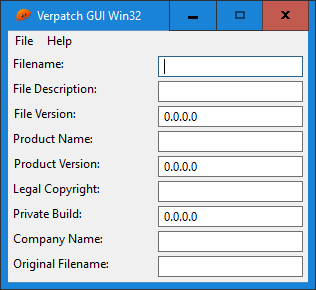
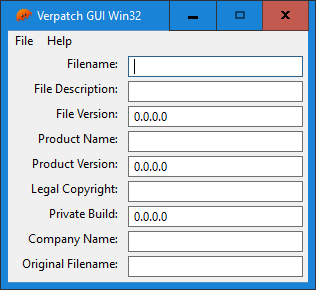
:bookmark: v0.1.0

diff --git a/src/my_window.rs b/src/my_window.rs
@@ -4,100 +4,230 @@ use winsafe::WinResult;
 
 #[derive(Clone)]
 pub struct MyWindow {
-  wnd: gui::WindowMain,
-  edits: Vec<gui::Edit>,
-  labels: Vec<gui::Label>
+    wnd: gui::WindowMain,
+    edits: Vec<gui::Edit>,
+    labels: Vec<gui::Label>,
 }
 
 impl MyWindow {
-  pub fn new() -> MyWindow {
-    let wnd = gui::WindowMain::new_dlg(1000, Some(101), None);
+    pub fn new() -> MyWindow {
+        let wnd = gui::WindowMain::new_dlg(1000, Some(101), None);
 
-    let label_texts: Vec<&str> = vec![
-      "Filename",
-      "File Description",
-      "File Version",
-      "Product Name",
-      "Product Version",
-      "Legal Copyright",
-      "Private Build",
-      "Company Name",
-      "Original Filename"
-    ];
+        let label_texts: Vec<&str> = vec![
+            "Filename",
+            "File Description",
+            "File Version",
+            "Product Name",
+            "Product Version",
+            "Legal Copyright",
+            "Private Build",
+            "Company Name",
+            "Original Filename",
+        ];
 
-    let edit_values: Vec<&str> = vec![
-      "", 
-      "", 
-      "0.0.0.0", 
-      "", 
-      "0.0.0.0", 
-      "", 
-      "0.0.0.0", 
-      "", 
-      "", 
-    ];
+        let edit_values: Vec<&str> = vec!["", "", "0.0.0.0", "", "0.0.0.0", "", "0.0.0.0", "", ""];
 
-    let mut edits: Vec<gui::Edit> = vec![];
-    let mut labels: Vec<gui::Label> = vec![];
+        let mut edits: Vec<gui::Edit> = vec![];
+        let mut labels: Vec<gui::Label> = vec![];
 
-    for i in 0..9 {
-      let edit = gui::Edit::new(&wnd, gui::EditOpts {
-        text: format!("{}", edit_values[i as usize]),
-        position: winsafe::POINT::new( 150, 5 + (20 * i) + (5 * i)),
-        width: 145,
-        ..Default::default()
-      });
+        for i in 0..9 {
+            let edit = gui::Edit::new(
+                &wnd,
+                gui::EditOpts {
+                    text: format!("{}", edit_values[i as usize]),
+                    position: winsafe::POINT::new(120, 5 + (20 * i) + (5 * i)),
+                    width: 175,
+                    ..Default::default()
+                },
+            );
 
-      let label = gui::Label::new(&wnd, gui::LabelOpts {
-        text: format!("{}:", label_texts[i as usize]),
-        position: winsafe::POINT::new( 5, 5 + (20 * i) + (5 * i)),
-        // the line below requires winsafe 0.0.3 
-        // size: winsafe::SIZE::new(145, 20),
-        label_style: winsafe::co::SS::RIGHT | winsafe::co::SS::NOTIFY,
-        ..Default::default()
-      });
+            let label = gui::Label::new(
+                &wnd,
+                gui::LabelOpts {
+                    text: format!("{}:", label_texts[i as usize]),
+                    position: winsafe::POINT::new(5, 5 + (20 * i) + (5 * i)),
+                    size: winsafe::SIZE::new(105, 20),
+                    label_style: winsafe::co::SS::RIGHT | winsafe::co::SS::NOTIFY,
+                    ..Default::default()
+                },
+            );
 
-      edits.push(edit);
-      labels.push(label);
-    } 
-    
-    let new_self = Self { wnd, edits, labels };
+            edits.push(edit);
+            labels.push(label);
+        }
 
-    new_self.events();
-    new_self
-  }
+        let new_self = Self { wnd, edits, labels };
 
-  pub fn run(&self) -> WinResult<()> {
-    self.wnd.run_main(None)
-  }
+        new_self.events();
+        new_self
+    }
 
-  fn events(&self) {
-    self.wnd.on().wm_init_dialog({
-      let myself = self.clone();
-      move |_| {
-        
-        true  
-      }
-    });
+    pub fn run(&self) -> WinResult<()> {
+        self.wnd.run_main(None)
+    }
 
-    
-    self.wnd.on().wm_command(winsafe::co::CMD::Menu, 1, {
-      move || {
-        println!("Open clicked.")
-      }
-    });
+    fn events(&self) {
+        self.wnd.on().wm_command(winsafe::co::CMD::Menu, 1, {
+            let myself = self.clone();
+            move || {
+                println!("Open clicked.");
+                let fileo: winsafe::shell::IFileOpenDialog = winsafe::CoCreateInstance(
+                    &winsafe::shell::clsid::FileOpenDialog,
+                    None,
+                    winsafe::co::CLSCTX::INPROC_SERVER,
+                )
+                .unwrap();
 
-    self.wnd.on().wm_command(winsafe::co::CMD::Menu, 2, {
-      move || {
-        println!("Save clicked.")
-      }
-    });
+                fileo
+                    .IFileDialog
+                    .SetOptions(
+                        fileo.IFileDialog.GetOptions().unwrap()
+                            | winsafe::co::FOS::FORCEFILESYSTEM
+                            | winsafe::co::FOS::FILEMUSTEXIST,
+                    )
+                    .unwrap();
 
-    self.wnd.on().wm_command(winsafe::co::CMD::Menu, 3, {
-      move || {
-        println!("About clicked.")
-      }
-    });
+                fileo
+                    .IFileDialog
+                    .SetFileTypes(&[("Binary files", "*.exe;*.dll"), ("All files", "*.*")])
+                    .unwrap();
 
-  }
+                fileo.IFileDialog.SetFileTypeIndex(0).unwrap();
+
+                let user_clicked_ok = fileo
+                    .IFileDialog
+                    .IModalWindow
+                    .Show(myself.wnd.hwnd())
+                    .unwrap();
+
+                if user_clicked_ok {
+                    let shi = fileo.IFileDialog.GetResult().unwrap();
+                    let file_path = shi.GetDisplayName(winsafe::co::SIGDN::FILESYSPATH).unwrap();
+                    myself.edits[0].set_text(&file_path).unwrap();
+                }
+            }
+        });
+
+        self.wnd.on().wm_command(winsafe::co::CMD::Menu, 2, {
+            let myself = self.clone();
+            move || {
+                println!("Save clicked.");
+                let edits = &myself.edits;
+
+                let filename = &edits[0].text().unwrap();
+                let file_description = &edits[1].text().unwrap();
+                let file_version = &edits[2].text().unwrap();
+                let product_name = &edits[3].text().unwrap();
+                let product_version = &edits[4].text().unwrap();
+                let legal_copyright = &edits[5].text().unwrap();
+                let private_build = &edits[6].text().unwrap();
+                let company_name = &edits[7].text().unwrap();
+                let original_filename = &edits[8].text().unwrap();
+
+                use std::os::windows::process::CommandExt;
+                use std::process::Command;
+                const CREATE_NO_WINDOW: u32 = 0x08000000;
+                let output = Command::new("verpatch")
+                    .creation_flags(CREATE_NO_WINDOW)
+                    .args(&[
+                        "/va",
+                        filename,
+                        file_version,
+                        "/s",
+                        "OriginalFilename",
+                        original_filename,
+                        "/s",
+                        "desc",
+                        file_description,
+                        "/s",
+                        "pb",
+                        private_build,
+                        "/s",
+                        "company",
+                        company_name,
+                        "/s",
+                        "(c)",
+                        legal_copyright,
+                        "/s",
+                        "product",
+                        product_name,
+                        "/pv",
+                        product_version,
+                    ])
+                    .output();
+
+                match output {
+                    Ok(output) => {
+                        if output.status.success() {
+                            myself
+                                .wnd
+                                .hwnd()
+                                .MessageBox(
+                                    "File metadata updated successfully!",
+                                    "Saved!",
+                                    winsafe::co::MB::OK,
+                                )
+                                .unwrap();
+                            return;
+                        }
+                        myself
+                            .wnd
+                            .hwnd()
+                            .MessageBox(
+                                &format!(
+                                    "Save failed:\n{}",
+                                    std::str::from_utf8(&output.stdout).unwrap()
+                                ),
+                                "Error",
+                                winsafe::co::MB::OK | winsafe::co::MB::ICONERROR,
+                            )
+                            .unwrap();
+                    }
+                    Err(e) => {
+                        myself
+                            .wnd
+                            .hwnd()
+                            .MessageBox(
+                                &format!("Unable to execute verpatch.exe:\n{}", e.to_string()),
+                                "Error",
+                                winsafe::co::MB::OK | winsafe::co::MB::ICONERROR,
+                            )
+                            .unwrap();
+                    }
+                }
+            }
+        });
+
+        self.wnd.on().wm_command(winsafe::co::CMD::Menu, 3, {
+            let myself = self.clone();
+            move || {
+                println!("Usage clicked.");
+                myself
+                    .wnd
+                    .hwnd()
+                    .MessageBox(
+                        "Verpatch.exe must be in this folder,\nor in your PATH environment variable.",
+                        "Usage",
+                        winsafe::co::MB::OK | winsafe::co::MB::ICONINFORMATION,
+                    )
+                    .unwrap();
+            }
+        });
+
+        self.wnd.on().wm_command(winsafe::co::CMD::Menu, 4, {
+            let myself = self.clone();
+            move || {
+                println!("About clicked.");
+                myself
+                    .wnd
+                    .hwnd()
+                    .MessageBox(
+                        "Verpatch GUI Win32 v0.1.0\n© 2021 GirkovArpa\n\nMade w/ winsafe crate",
+                        "About",
+                        winsafe::co::MB::OK | winsafe::co::MB::ICONINFORMATION,
+                    )
+                    .unwrap();
+            }
+        });
+    }
 }

diff --git a/build.rs b/build.rs
@@ -2,11 +2,11 @@ use std::fs;
 use std::path::Path;
 
 fn main() {
-  const RES: &str = "resources.res";
-  let mut dotlib = String::from(RES);
-  dotlib.push_str(".lib");
-  if Path::new(RES).exists() {
-    fs::copy(RES, &dotlib).unwrap();
-  }
-  println!("cargo:rustc-link-lib=dylib={}", RES);
+    const RES: &str = "resources.res";
+    let mut dotlib = String::from(RES);
+    dotlib.push_str(".lib");
+    if Path::new(RES).exists() {
+        fs::copy(RES, &dotlib).unwrap();
+    }
+    println!("cargo:rustc-link-lib=dylib={}", RES);
 }

diff --git a/src/main.rs b/src/main.rs
@@ -4,8 +4,8 @@ mod my_window;
 use my_window::MyWindow;
 
 fn main() {
-  let my_window = MyWindow::new();
-  if let Err(e) = my_window.run() { 
-    eprintln!("{}", e);
-  }
+    let my_window = MyWindow::new();
+    if let Err(e) = my_window.run() {
+        eprintln!("{}", e);
+    }
 }

diff --git a/README.md b/README.md
@@ -1,6 +1,6 @@
 # Verpatch GUI Win32
 
-:construction: Under construction :construction:
+:construction: Uses local clone of winsafe as a dependency! :construction:
 
 A graphical user interface for [verpatch](https://www.codeproject.com/Articles/37133/Simple-Version-Resource-Tool-for-Windows), a program that allows modifying an executable's metadata (such as version info and copyright).
 
@@ -14,7 +14,7 @@ Made with [winsafe](https://github.com/rodrigocfd/winsafe).
 
 1. Place [verpatch.exe](https://github.com/egorovsa/node-verpatch/tree/master/bin) inside this folder.
 
-2. Run `cargo run`.
+2. Run `cargo run`, or `cargo build --release` and find the resulting executable in the `target/release` folder.
 
 ## Customization
 
